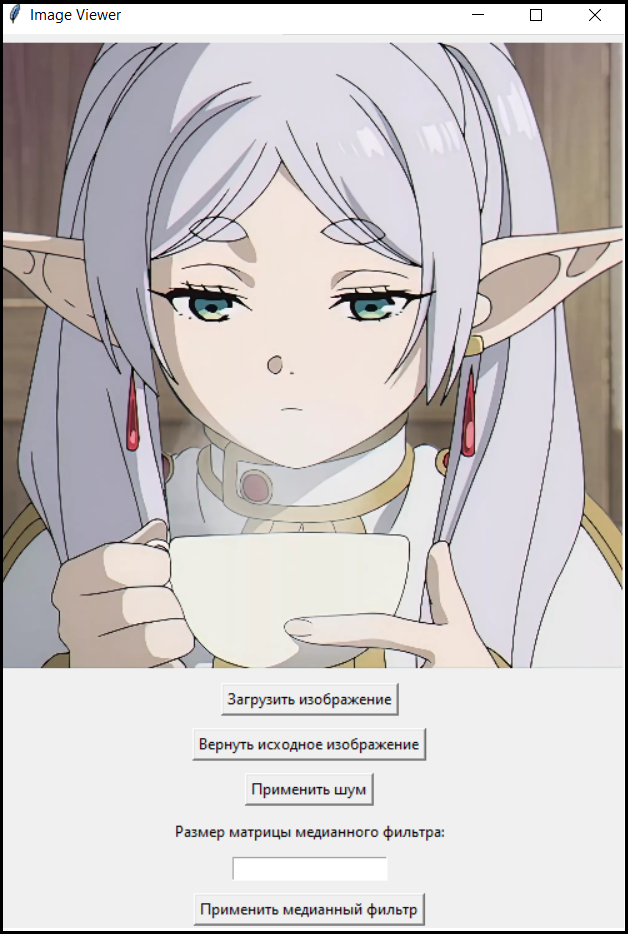
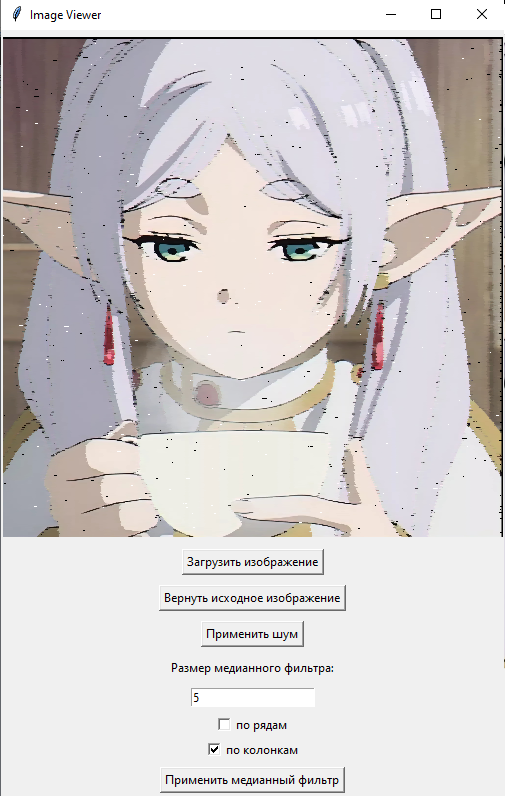
finaly (may be)

diff --git a/trunk/II2208/task_01/src/main.py b/trunk/II2208/task_01/src/main.py
@@ -21,29 +21,49 @@ def make_noisy(img, p):
     return noisy
 
 
-def median_blur(noisy_img, p):
+def medianBlur(img, row, column, n):
+    print(row, column)
 
-    def median_blur_gray(noisy_img, p):
-        h, w = noisy_img.shape
-        pad = p // 2
-        padded_image = np.pad(noisy_img, pad, mode='constant', constant_values=0)
-        result = np.zeros_like(noisy_img)
+    def rowMedianBlur(img):
+        h, w = img.shape
+        pad = n // 2
+        padded_image = np.pad(img, pad, mode='constant', constant_values=0)
+        result = np.zeros_like(img)
         for i in range(h):
             for j in range(w):
-                window = padded_image[i:i + p, j:j + p]
+                window = padded_image[i + pad:i + n + pad, j]
                 median_value = np.median(window)
                 result[i, j] = median_value
         return result
 
-    if len(noisy_img.shape) == 2:
-        return median_blur_gray(noisy_img, p)
-    else:
-        r, g, b = cv2.split(noisy_img)
-        r = median_blur_gray(r, p)
-        g = median_blur_gray(g, p)
-        b = median_blur_gray(b, p)
-        img = cv2.merge([r, g, b])
-        return img
+    def columnMedianBlur(img):
+        h, w = img.shape
+        pad = n // 2
+        padded_image = np.pad(img, pad, mode='constant', constant_values=0)
+        result = np.zeros_like(img)
+        for i in range(h):
+            for j in range(w):
+                window = padded_image[i, j + pad:j + n + pad]
+                median_value = np.median(window)
+                result[i, j] = median_value
+        return result
+
+    result = np.copy(img)
+    if row:
+        r, g, b = cv2.split(result)
+        r = rowMedianBlur(r)
+        g = rowMedianBlur(g)
+        b = rowMedianBlur(b)
+        result = cv2.merge([r, g, b])
+
+    if column:
+        r, g, b = cv2.split(result)
+        r = columnMedianBlur(r)
+        g = columnMedianBlur(g)
+        b = columnMedianBlur(b)
+        result = cv2.merge([r, g, b])
+
+    return result
 
 
 class ImageViewerApp:
@@ -63,17 +83,35 @@ class ImageViewerApp:
         self.noise_button = tk.Button(root, text="Применить шум", command=self.apply_noise)
         self.noise_button.pack(pady=5)
 
-        self.filter_size_label = tk.Label(root, text="Размер матрицы медианного фильтра:")
+        self.filter_size_label = tk.Label(root, text="Размер медианного фильтра:")
         self.filter_size_label.pack(pady=5)
 
         self.filter_size_entry = tk.Entry(root)
         self.filter_size_entry.pack(pady=5)
+
+        checkbox_var1 = tk.IntVar()
+        checkbox_var2 = tk.IntVar()
+
+        checkbox1 = tk.Checkbutton(root, text="по рядам", variable=checkbox_var1, onvalue=1, offvalue=0,
+                                   command=self.on_checkbox_clicked1)
+        checkbox2 = tk.Checkbutton(root, text="по колонкам", variable=checkbox_var2, onvalue=1, offvalue=0,
+                                   command=self.on_checkbox_clicked2)
+        checkbox1.pack()
+        checkbox2.pack()
 
         self.median_filter_button = tk.Button(root, text="Применить медианный фильтр", command=self.apply_median_filter)
         self.median_filter_button.pack(pady=5)
 
         self.original_image = None
         self.noise_image = None
+        self.row = False
+        self.column = False
+
+    def on_checkbox_clicked1(self):
+        self.row = not self.row
+
+    def on_checkbox_clicked2(self):
+        self.column = not self.column
 
     def load_image(self):
         initial_dir = "./asstets"
@@ -87,7 +125,7 @@ class ImageViewerApp:
     def apply_median_filter(self):
         if self.original_image is not None:
             filter_size = int(self.filter_size_entry.get())
-            self.noise_image = median_blur(self.noise_image, filter_size)
+            self.noise_image = medianBlur(self.noise_image, self.row, self.column, filter_size)
             self.display_image(self.noise_image)
 
     def apply_noise(self):

diff --git a/trunk/II2208/task_01/doc/readme.md b/trunk/II2208/task_01/doc/readme.md
@@ -1,32 +1,54 @@
-**МИНИСТЕРСТВО ОБРАЗОВАНИЯ РЕСПУБЛИКИ БЕЛАРУСЬ**  
-**УЧРЕЖДЕНИЕ ОБРАЗОВАНИЯ**  
-**“БРЕСТСКИЙ ГОСУДАРСТВЕННЫЙ ТЕХНИЧЕСКИЙ УНИВЕРСИТЕТ”**  
-**ИНТЕЛЕКТУАЛЬНЫЕ ИНФОРМАЦИОННЫЕ ТЕХНОЛОГИИ**  
-**ОТЧЁТ**  
-**По лабораторной работе № 1**
-
-**Выполнил:**  
-Cтудент группы ИИ-22  
-Копанчук Е. Р.  
-**Проверила:**  
+<p style="text-align: center; line-height: 24px;">
+МИНИСТЕРСТВО ОБРАЗОВАНИЯ РЕСПУБЛИКИ БЕЛАРУСЬ
+<br>
+УЧРЕЖДЕНИЕ ОБРАЗОВАНИЯ
+<br>
+“БРЕСТСКИЙ ГОСУДАРСТВЕННЫЙ ТЕХНИЧЕСКИЙ УНИВЕРСИТЕТ”
+<br>
+ИНТЕЛЕКТУАЛЬНЫЕ ИНФОРМАЦИОННЫЕ ТЕХНОЛОГИИ
+<br>
+ОТЧЁТ
+<br>
+По лабораторной работе № 1
+</p>
+<div style="width: 100%; display: flex; justify-content: right;">
+<p style="width: 200px; line-height: 20px;">
+Выполнил:
+<br>
+Cтудент группы ИИ-22
+<br>
+Копанчук Е. Р.
+<br>
+Проверила:
+<br>
 Ситковец Я.С
+</p>
+</div>
+<p style="text-align: center; line-height: 30px;">
+Брест – 2024
+</p>
 
-**Брест – 2024**
+<h5>Задание:</h5>
+<p style="line-height: 20px;">
+Составить программу, выполняющую фильтрацию изображения от импульсных помех.
+<span style="font-weight: bold;">Необходимые характеристики:</span>
+<div style="line-height: 20px;">
+<li>Изображение хранится во внешнем файле;</li>
+<li>программно в изображение вносятся помехи;</li>
+<li>программа должна выводить исходное и отфильтрованное изображения;</li>
+<li>Должна присутствовать возможность выбора уровня зашумления.</li>
+<li>Использовать медианный фильтр. Окно должно осуществлять проход изображения по строкам и столбцам.</li>
+</div>
 
-#### Задание:
-Составить программу, выполняющую фильтрацию изображения от импульсных помех. \
-\
-**Необходимые характеристики:**
-- Изображение хранится во внешнем файле;
-- программно в изображение вносятся помехи;
-- программа должна выводить исходное и отфильтрованное изображения;
-- Должна присутствовать возможность выбора уровня зашумления.
-- Использовать медианный фильтр. Окно должно осуществлять проход изображения по строкам и столбцам.
+<h5>Результат работы:</h5>
 
-#### Результат работы:
-#### ГУИ программы: ####
-![ГУИ программы](./program.png) 
-#### Исходные изображение; Зашумленные изображения; Востановленные изображения. ####
-![1. Исходные изображение; 2. Зашумленные изображения; 3. Востановленные изображения.](./examples.png)
-#### Код программы:
-[Перейти к коду](https://www.youtube.com/watch?v=jyvHWMCILdQ)
+<div style="width: 100%; text-align: center;">
+<img src="./program.png" style="width: 50%;"/>
+</div>
+<div style="line-height: 10px; width: 100%; text-align: center; font-size: 12px; padding-bottom: 20px;">ГУИ программы</div>
+
+<img src="./examples.png"/>
+<div style="line-height: 10px; width: 100%; text-align: center; font-size: 12px; padding-bottom: 20px;">1. Исходные изображение; 2. Зашумленные изображения; 3. Востановленные по рядам; 4. Востановленные по столбцам; 5. Востановленные изображения по рядам и столбцам.</div>
+
+<h5>Код программы:</h5>
+<a href="https://github.com/brstu/GIIS-2024/tree/main/trunk/II2208/task_01/src/main.py">Перейти к коду</a>
